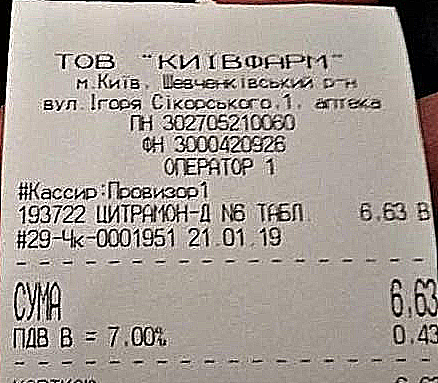
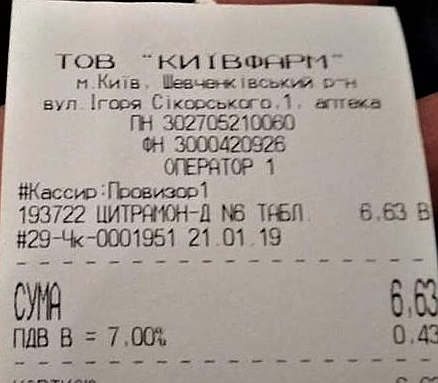
merged

diff --git a/main.py b/main.py
@@ -3,7 +3,7 @@ import os
 import cv2
 import numpy as np
 import pytesseract
-from PIL import Image
+from PIL import Image, ImageEnhance
 import platform
 
 win = 'windows'
@@ -17,20 +17,19 @@ src_path_win = 'D:\Labas\hack\crop'
 cropped_suffix = '_cropped'
 sharp_suffix = '_sharp'
 thres_suffix = '_thres'
+contrast_suffix = '_contrast'
 
 crop_dir_linux = '/home/semen/drive/workspace.python/hack/photos/crop/'
 orig_dir_linux = '/home/semen/drive/workspace.python/hack/photos/orig/'
 sharp_dir_linux = '/home/semen/drive/workspace.python/hack/photos/sharp/'
 thres_dir_linux = '/home/semen/drive/workspace.python/hack/photos/thres/'
+contrast_dir_linux = '/home/semen/drive/workspace.python/hack/photos/contrast/'
 
 crop_dir_win = "D:\Labas\hack\crop"
 orig_dir_win = 'D:\Labas\hack\orig'
 sharp_dir_win = 'D:\Labas\hack\sharp'
 thres_dir_win = 'D:\Labas\hack\\thres'
-
-kernel_sharpening = np.array([[-1, -1, -1],
-                              [-1, 9, -1],
-                              [-1, -1, -1]])
+contrast_dir_win = 'D:\Labas\hack\contrast'
 
 
 def get_origin_dir():
@@ -61,6 +60,13 @@ def get_thres_dir():
         return thres_dir_linux
 
 
+def get_contrast_dir():
+    if plat == win:
+        return contrast_dir_win
+    else:
+        return contrast_dir_linux
+
+
 def append_suffix(path: str, suffix: str) -> str:
     base_name = os.path.basename(path)
     name, extension = os.path.splitext(base_name)
@@ -81,6 +87,10 @@ def get_sharped_path(file_name: str) -> str:
 
 def get_thres_path(file_name: str) -> str:
     return os.path.join(get_thres_dir(), append_suffix(file_name, thres_suffix))
+
+
+def get_contrast_path(file_name: str) -> str:
+    return os.path.join(get_contrast_dir(), append_suffix(file_name, contrast_suffix))
 
 
 def get_string(file_path):
@@ -174,19 +184,22 @@ if __name__ == '__main__':
 
     CROPPED_IMAGE_PATH = get_croped_path(image_name)
     SHARPED_IMAGE_PATH = get_sharped_path(image_name)
+    CONTRAST_IMAGE_PATH = get_contrast_path(image_name)
 
     cropped_image = origin_image[y_min:y_max, x_min:x_max]
-    equalized_image = cv2.equalizeHist(cv2.cvtColor(cropped_image, cv2.COLOR_BGR2GRAY))
-
     cv2.imwrite(CROPPED_IMAGE_PATH, cropped_image)
 
-    sharpened = cv2.filter2D(cv2.imread(CROPPED_IMAGE_PATH), -1, kernel_sharpening)
+    image = Image.open(CROPPED_IMAGE_PATH)
+    enhancer = ImageEnhance.Sharpness(image)
+    enhanced_im = enhancer.enhance(3.0)
+    enhanced_im.save(SHARPED_IMAGE_PATH)
 
-    cv2.imwrite(SHARPED_IMAGE_PATH, sharpened)
+    image = Image.open(SHARPED_IMAGE_PATH)
+    enhancer = ImageEnhance.Contrast(image)
+    enhanced_im = enhancer.enhance(1.2)
+    enhanced_im.save(CONTRAST_IMAGE_PATH)
 
-    parsed_text = get_string(SHARPED_IMAGE_PATH)
-
+    parsed_text = get_string(CONTRAST_IMAGE_PATH)
     print(parsed_text)
 
     print("------ Done -------")
-
